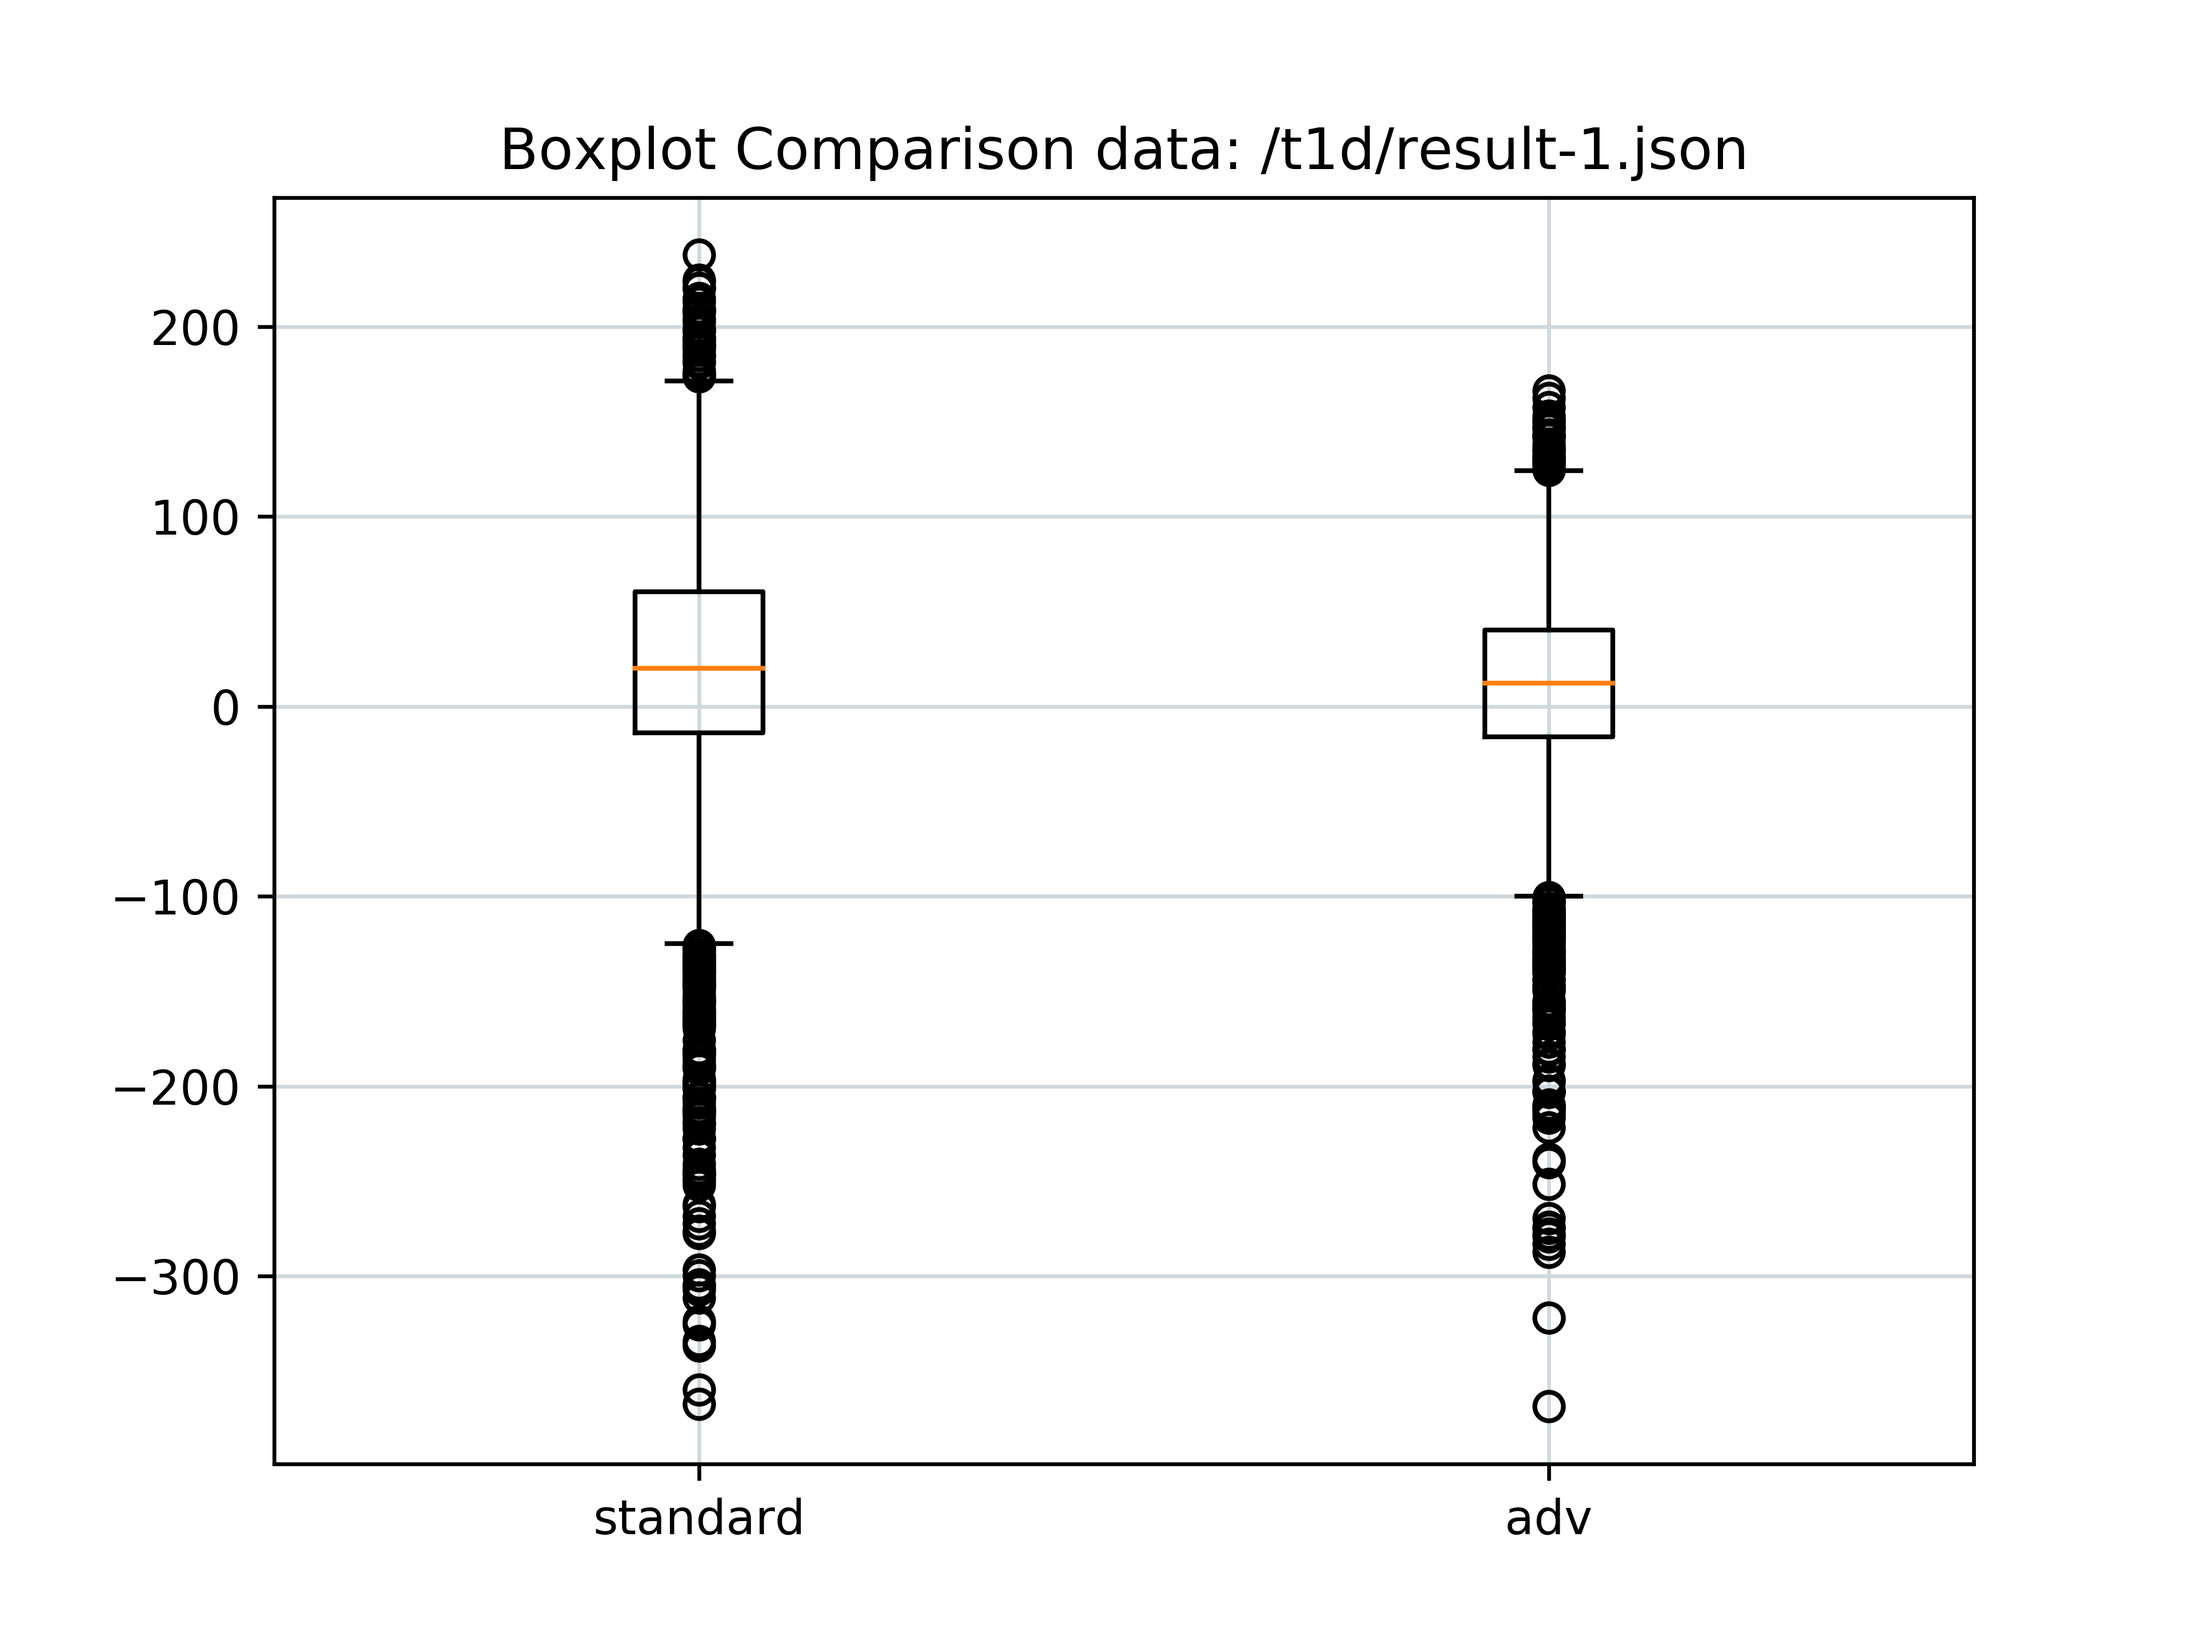
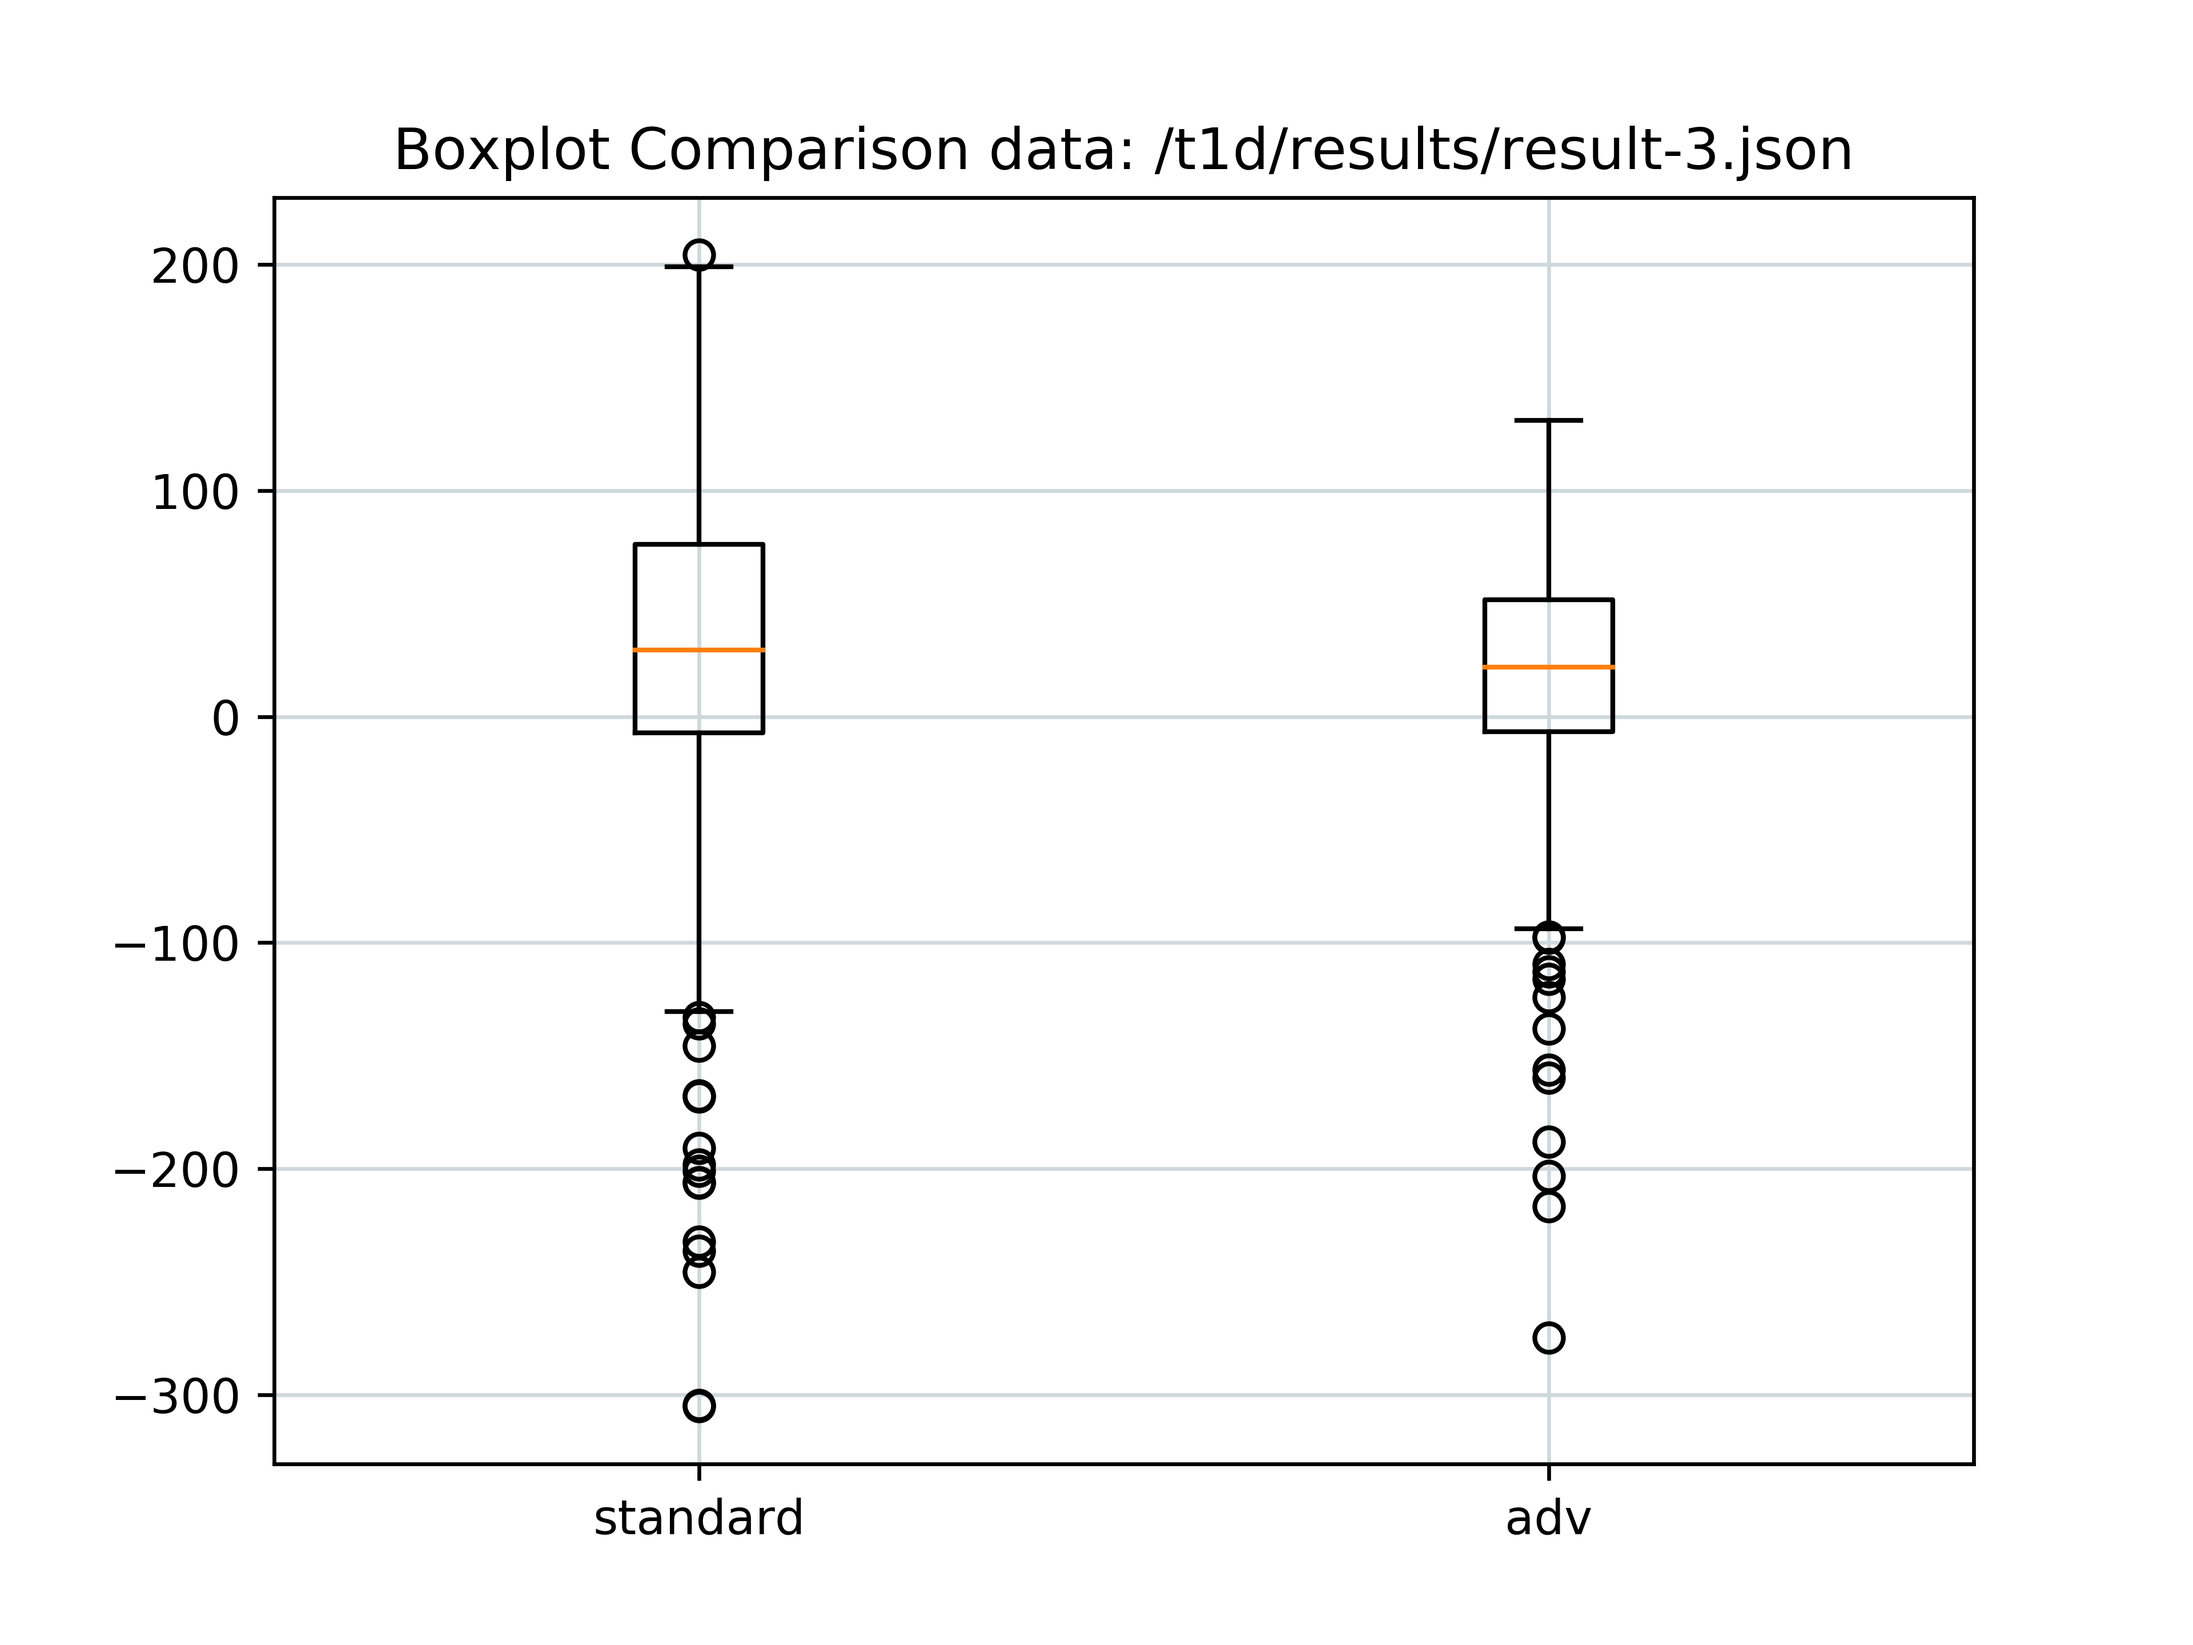
much fast prediction time

diff --git a/Python/check.py b/Python/check.py
@@ -1,12 +1,12 @@
 import logging
 import os
 import pandas
-
+import numpy as np
 import extractor
 from datetime import datetime, timedelta
 
 from Classes import UserData
-from predict import calculateBG
+import predict
 from matplotlib import pyplot as plt
 
 timeFormat = "%d.%m.%y,%H:%M%z"
@@ -56,7 +56,14 @@ def checkWindow(data, udata, startTime):
 
     return [error, error_adv]
 
-
+def getTimeDeltaFast(row, start):
+    time = row.datetime
+    if time < start:
+        timeDifference = start - time
+        return - timeDifference.seconds / 60
+    else:
+        timeDifference = time - start
+        return timeDifference.seconds / 60
 def getTimeDelta(row, start):
     if isinstance(start, datetime):
         startTime = start
@@ -78,8 +85,8 @@ def getTimeDelta(row, start):
 
 def getClosestIndex(cgmX, number):
     res = 0
-    logger.debug("cgmX last" + str(cgmX[len(cgmX) -1 ]))
-    logger.debug("number " + str(number))
+    #logger.debug("cgmX last" + str(cgmX[len(cgmX) -1 ]))
+    #logger.debug("number " + str(number))
     while cgmX[res] <= number:
         res += 1
     return res - 1
@@ -93,6 +100,66 @@ def getPredictionVals(cgmX, cgmY, index,  simData):
         res.append(start + simData[i] - zero)
     return res
 
+
+def getPredictionAt(index_last_train, df_train, udata):
+
+    prediction = predict.calculateBGAt(index_last_train, df_train, udata, udata.simlength * 60)
+    #logger.debug("prediction at " + str(prediction))
+    return prediction
+
+
+def checkFast(data, udata, startTime):
+
+    # Get all Values of the Continuous Blood Glucose Reading, cgmX as TimeDelta from Start and cgmY the paired Value
+    cgmtrue = data[data['cgmValue'].notnull()]
+    cgmtrue['delta'] = cgmtrue.apply(lambda row: getTimeDeltaFast(row, startTime), axis=1)
+    cgmtrue = cgmtrue[0 < cgmtrue['delta']]
+    cgmtrue = cgmtrue[cgmtrue['delta'] < udata.simlength * 60]
+    cgmX = cgmtrue['delta'].values
+    cgmY = cgmtrue['cgmValue'].values
+
+    # Find Data Point closest to 5h mark, save index
+    if (cgmX[len(cgmX) - 1] >= (udata.simlength - 1) * 60):
+        index_last_train = getClosestIndex(cgmX, (udata.simlength - 1) * 60)
+        time_last_train = cgmX[index_last_train]
+        train_value = cgmY[index_last_train]
+    else:
+        logger.warning("not able to predict")
+        return None
+
+    # Get Last Datapoint and index
+    index_last_value = len(cgmY) - 1  # TODO check if index l v - index l t is circa 60 min
+    time_last_value = cgmX[index_last_value]
+    lastValue = cgmY[index_last_value]
+
+
+    # Get Events for Prediction
+    events = extractor.getEvents(data)
+    converted = events.apply(lambda event: convertTimes(event, startTime))
+    df = pandas.DataFrame([vars(e) for e in converted])
+    df_train = df[df.time < (udata.simlength - 1) * 60]
+    logger.debug("index train " + str(index_last_train))
+    logger.debug("index last " + str(index_last_value))
+    # Get prediction Value for last train value
+    prediction_last_train = np.array(predict.calculateBGAt(time_last_train, df_train, udata, udata.simlength * 60))
+    logger.debug("prediction train " + str(prediction_last_train))
+    # Get prediction Value for last value
+    prediction_last_value = np.array(predict.calculateBGAt(time_last_value, df_train, udata, udata.simlength * 60))
+    logger.debug("prediction value " + str(prediction_last_value))
+    # Get Delta between train and last value
+    prediction_delta = prediction_last_value - prediction_last_train
+    logger.debug("delta " + str(prediction_delta))
+    # add on last Train value
+    prediction = np.add(train_value, prediction_delta)
+    logger.debug("prediction " + str(prediction))
+    # add same value prediction
+    prediction = np.append(prediction, train_value)
+    logger.debug("prediction " + str(prediction))
+    # calculate error
+    errors = np.subtract(lastValue, prediction)
+    logger.debug("errors " + str(errors))
+
+    return errors.tolist()
 
 def checkCurrent(data, udata, startTime):
 
@@ -117,7 +184,7 @@ def checkCurrent(data, udata, startTime):
 
     udata.bginitial = initialBG
 
-    data = calculateBG(df_train, udata, udata.simlength * 60)
+    data = predict.calculateBG(df_train, udata, udata.simlength * 60)
 
     basalValues = df[df.etype == 'tempbasal']
     carbValues = df[df.etype == 'carb']

diff --git a/Python/main.py b/Python/main.py
@@ -10,7 +10,8 @@ import autotune
 import json
 import logging
 import time
-from tabulate import tabulate
+import filecmp
+
 import profile
 import pstats
 from pstats import SortKey
@@ -45,11 +46,9 @@ def mainPredict(data, userdata):
 
 # make prediction every 15 minutes
 def predictFast(data, userdata):
-    setNumber = 1  # for debug
+    setNumber = 3  # for debug
     res = rolling.predictRolling(data, userdata)
 
-
-    logger.debug(tabulate(res, headers='keys', tablefmt='psql'))
     logger.debug(res)
     # analyse data and prepare for output
     df = pandas.DataFrame(res)
@@ -80,8 +79,8 @@ def predictFast(data, userdata):
     jsonobject = {"mean": float(mean), "mean_adv": float(mean_adv), "mean_same_value": float(mean_same_value),
                   "median": float(median),  "median_adv": float(median_adv), "median_same_value": float(median_same_value),
                   "data": res}
-    filename = "/t1d/result-" + str(setNumber) + ".json"
-    analyze(jsonobject, filename)
+    filename = "/t1d/results/result-" + str(setNumber) + ".json"
+    #analyze(jsonobject, filename)
     file = open(filename, 'w')
     file.write(json.dumps(jsonobject))
     logger.info("finished prediction")
@@ -113,17 +112,20 @@ def main():
     predictFast(data, udata)
     logger.info("finished!")
 if __name__ == '__main__':
-
+    run_profile = False
     start_time = time.process_time()
-    main()
-    print(time.process_time() - start_time, "seconds")
     #
-    #prof = profile.run('main()', "/t1d/results/profile")
-    #p = pstats.Stats("/t1d/results/profile")
-    #p.strip_dirs().sort_stats(SortKey.CUMULATIVE).reverse_order().dump_stats("/t1d/results/profile.txt")
-    #p.strip_dirs().sort_stats(SortKey.CUMULATIVE).print_stats(15)
-    #p.strip_dirs().sort_stats(SortKey.CALLS).print_stats(15)
-    #p.strip_dirs().sort_stats(SortKey.TIME).print_stats(15)
+    if run_profile:
+        prof = profile.run('main()', "/t1d/results/profile")
+        p = pstats.Stats("/t1d/results/profile")
+        p.strip_dirs().sort_stats(SortKey.CUMULATIVE).reverse_order().dump_stats("/t1d/results/profile.txt")
+        p.strip_dirs().sort_stats(SortKey.CUMULATIVE).print_stats(15)
+        p.strip_dirs().sort_stats(SortKey.CALLS).print_stats(15)
+        p.strip_dirs().sort_stats(SortKey.TIME).print_stats(15)
+    else:
+        main()
+    logger.info(str(time.process_time() - start_time) + " seconds")
+    logger.info("File Comparison: " + str(filecmp.cmp('/t1d/results/result-3.json', '/t1d/results/result-2.json')))
 
 
 # prediction mit gleichem wert

diff --git a/Python/predict.py b/Python/predict.py
@@ -4,7 +4,8 @@ from typing import Any, Union
 
 import matplotlib.pyplot as plt
 import numpy as np
-
+import logging
+logger = logging.getLogger(__name__)
 from Classes import Event
 
 """   _td := 360
@@ -123,6 +124,9 @@ def deltatempBGI(g, dbdt, sensf, idur, t1, t2):
 
 
 def deltaBGC(g, sensf, cratio, camount, ct):
+    logger.debug("delta bgc")
+    logger.debug(str(g) + "\t" + str(sensf) + "\t" + str(cratio) + "\t" + str(camount) + "\t" + str(ct))
+    logger.debug(sensf/cratio*camount*cob(g, ct))
     return sensf/cratio*camount*cob(g, ct)
 
 
@@ -136,6 +140,36 @@ def deltaBGI_adv(g, bolus, sensf, idur, varsobject):
 
 def deltaBG(g, sensf, cratio, camount, ct, bolus, idur):
     return deltaBGI(g, bolus, sensf, idur) + deltaBGC(g, sensf, cratio, camount, ct)
+
+
+def calculateBGAt(index, uevent, udata, n):
+    varsobject = init_vars(udata.sensf, udata.idur * 60)
+
+    simbg = udata.bginitial
+    simbg_adv = udata.bginitial
+    simbgc = 0
+    simbgi = 0
+    simbgi_adv = 0
+
+
+    simt = udata.simlength * 60
+    dt = simt / n # dt must be 1, 1 minute intervals
+    i = index
+    logger.debug("number of events " + str(len(uevent)))
+    logger.debug("index " + str(i))
+    for j in range(0, len(uevent)):
+        if uevent.etype.values[j] != "":
+                if uevent.etype.values[j] == "carb":
+                    simbgc = simbgc + deltaBGC(i * dt - uevent.time.values[j], udata.sensf, udata.cratio, uevent.grams.values[j], uevent.ctype.values[j])
+                elif uevent.etype.values[j] == "bolus":
+                    simbgi = simbgi + deltaBGI(i * dt - uevent.time.values[j], uevent.units.values[j], udata.sensf, udata.idur)
+                    simbgi_adv = simbgi_adv + deltaBGI_adv(i * dt - uevent.time.values[j], uevent.units.values[j], udata.sensf, udata.idur * 60, varsobject)
+
+    simbg_res = simbg + simbgc + simbgi
+    simbg_adv = simbg_adv + simbgc + simbgi_adv
+    return [simbg_res, simbg_adv]
+
+
 
 
 def calculateBG(uevent, udata, n):
@@ -201,3 +235,5 @@ def compareIobs(userdata, uevents, filename):
     plt.legend()
     plt.title("Comparison of IOB functions")
     plt.savefig(filename, dpi=600)
+
+

diff --git a/Python/rolling.py b/Python/rolling.py
@@ -2,7 +2,7 @@ import pandas
 import logging
 from datetime import datetime, timedelta
 from autotune_prep import convertTime
-from check import checkWindow, checkCurrent
+import check
 
 
 logger = logging.getLogger(__name__)
@@ -15,7 +15,6 @@ def getDateTime(row):
 def predictWindow(window):
     print(window.shape)
     return 1
-
 
 def predictRolling2(inputData, userData):
     # user rolling window to get 5 hours of data
@@ -48,7 +47,8 @@ def rolling(data, delta, udata):
         subset = subset.loc[startTime + timedelta(hours=udata.simlength) > subset.index]
 
         # call the prediction method
-        res = checkCurrent(subset, udata, startTime)
+        res = check.checkFast(subset, udata, startTime)
+        #res = check.checkCurrent(subset, udata, startTime)
         if res is not None:
             results.append(res)
 
